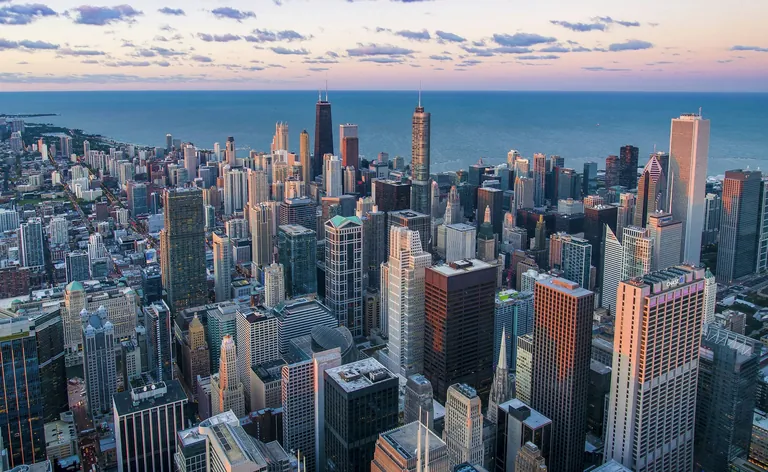
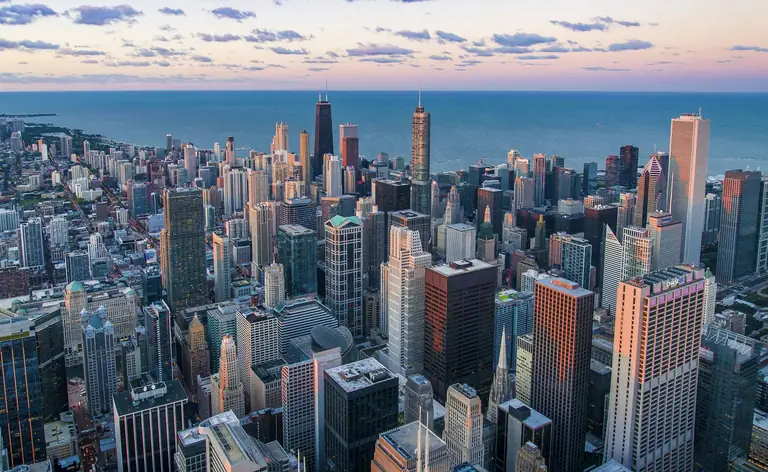
perf(landing): CSP for GA, async fonts, LCP splash, composited progress bar
Round 2 of Lighthouse fixes — addresses the items remaining after #489.

Best Practices 100→92 regression (mobile)
- CSP `connect-src` was blocking GTM's POST to www.google-analytics.com
  and www.google.com /g/collect endpoints (visible only in headless
  Chrome — your browser extension blocks GA so you didn't see it).
  Added the GA hosts + *.analytics.google.com. img-src also gets the
  GA tracking-pixel hosts explicitly even though `https:` already
  permits them, for clarity.

Mobile FCP/render-blocking (~900 ms savings)
- Google Fonts <link> changed to media="print" onload="this.media='all'"
  with a <noscript> fallback. The stylesheet downloads in parallel with
  the app but doesn't block first paint; display=swap continues to
  prevent FOIT once fonts arrive.

Mobile LCP (5.8 s → expected ~1–1.5 s)
- Added a static splash inside #root: a full-viewport "RS Recruiting"
  wordmark with inline styles that paint at HTML-parse time, before the
  Tailwind CSS or JS bundle finishes. createRoot.render() wipes it when
  React mounts. Sized large enough to be the LCP candidate.
- Removed the 900 ms opacity fade-in on the hero <img>. With preload +
  fetchpriority="high" the image is in cache when React renders the
  element; the transition was the new LCP floor once the splash made
  the wordmark fast. Also dropped the unused heroLoaded state + onLoad.

Composited animations (1 element flagged)
- Scroll-progress bar at LandingPage.tsx:696 was animating `width`
[…]

diff --git a/frontend/index.html b/frontend/index.html
@@ -12,7 +12,19 @@
          then fetch the font CSS. As a <link> they're requested in parallel. -->
     <link rel="preconnect" href="https://fonts.googleapis.com" />
     <link rel="preconnect" href="https://fonts.gstatic.com" crossorigin />
-    <link rel="stylesheet" href="https://fonts.googleapis.com/css2?family=Inter:wght@300;400;500;600&family=Playfair+Display:wght@400;500;600&display=swap" />
+    <!-- Async font load: media="print" makes the stylesheet non-render-blocking,
+         onload swaps it back to media="all" once it's parsed. With display=swap
+         the page renders with fallback fonts first, then re-renders when web
+         fonts arrive. Saves ~700–900 ms on Slow 4G. -->
+    <link
+      rel="stylesheet"
+      href="https://fonts.googleapis.com/css2?family=Inter:wght@300;400;500;600&family=Playfair+Display:wght@400;500;600&display=swap"
+      media="print"
+      onload="this.media='all'"
+    />
+    <noscript>
+      <link rel="stylesheet" href="https://fonts.googleapis.com/css2?family=Inter:wght@300;400;500;600&family=Playfair+Display:wght@400;500;600&display=swap" />
+    </noscript>
 
     <!-- LCP preload: the landing-page hero image is the mobile LCP element.
          Preloading the responsive srcset cuts ~1s off LCP. Keep this in sync
@@ -37,9 +49,38 @@
     <meta property="og:image" content="/hero-city.jpg" />
     <meta property="og:type" content="website" />
     <meta property="og:locale" content="he_IL" />
+
+    <!-- LCP splash: rendered before the JS bundle parses so the largest
+         contentful paint happens immediately on HTML parse instead of waiting
+         for React hydration (was 2.56 s element render delay on mobile).
+         createRoot.render() wipes the splash when React mounts. Self-contained
+         inline styles avoid waiting on the Tailwind CSS bundle. Sized to match
+         the LogoBanner wordmark so the SPA's first render doesn't look like a
+         shift. -->
+    <style>
+      .rs-splash {
+        position: fixed;
+        inset: 0;
+        display: flex;
+        align-items: center;
+        justify-content: center;
+        background: #0D0B09;
+      }
+      .rs-splash span {
+        font-family: 'Playfair Display', 'Cormorant Garamond', Georgia, serif;
+        font-weight: 300;
+        font-size: clamp(3.5rem, 12vw, 5.5rem);
+        letter-spacing: 0.1em;
+        color: rgba(201, 168, 76, 0.6);
+      }
+    </style>
   </head>
   <body>
-    <div id="root"></div>
+    <div id="root">
+      <div class="rs-splash" aria-hidden="true">
+        <span>RS Recruiting</span>
+      </div>
+    </div>
     <script type="module" src="/src/main.tsx"></script>
   </body>
 </html>

diff --git a/frontend/src/pages/public/LandingPage.tsx b/frontend/src/pages/public/LandingPage.tsx
@@ -108,7 +108,6 @@ export default function LandingPage() {
   const [jobs, setJobs] = useState<JobPublicRead[]>([]);
   const [loading, setLoading] = useState(true);
   const [searchQuery, setSearchQuery] = useState("");
-  const [heroLoaded, setHeroLoaded] = useState(false);
   const [aboutImgLoaded, setAboutImgLoaded] = useState(false);
   const [scrollProgress, setScrollProgress] = useState(0);
   const [cardsVisible, setCardsVisible] = useState<boolean>(
@@ -316,16 +315,14 @@ export default function LandingPage() {
             src="/hero-city.jpg"
             alt=""
             aria-hidden="true"
-            // LCP image — preloaded in index.html with matching srcset.
-            // fetchpriority hints the browser to fetch it before non-critical assets.
+            // LCP image — preloaded in index.html with matching srcset. With
+            // preload + fetchpriority the image is in cache by the time React
+            // renders this element, so no fade-in is needed and the prior
+            // 900 ms opacity transition would have capped the LCP score.
             fetchPriority="high"
             decoding="async"
-            onLoad={() => setHeroLoaded(true)}
-            className="pointer-events-none absolute inset-0 h-full w-full object-cover transition-opacity duration-[900ms] ease-out"
-            style={{
-              objectPosition: "center 60%",
-              opacity: heroLoaded ? 1 : 0,
-            }}
+            className="pointer-events-none absolute inset-0 h-full w-full object-cover"
+            style={{ objectPosition: "center 60%" }}
           />
         </picture>
 
@@ -690,11 +687,16 @@ export default function LandingPage() {
               ))}
             </div>
 
-            {/* Progress bar */}
+            {/* Progress bar — animates transform (composited) instead of width
+                so Lighthouse stops flagging non-composited animation. RTL page,
+                so the bar grows from the inline-start side (the right). */}
             <div className="mt-5 h-px overflow-hidden rounded-full bg-white/8">
               <div
-                className="h-full rounded-full bg-copper/50 transition-all duration-100"
-                style={{ width: `${scrollProgress}%` }}
+                className="h-full w-full rounded-full bg-copper/50 transition-transform duration-100"
+                style={{
+                  transform: `scaleX(${scrollProgress / 100})`,
+                  transformOrigin: "right",
+                }}
               />
             </div>
             </div>